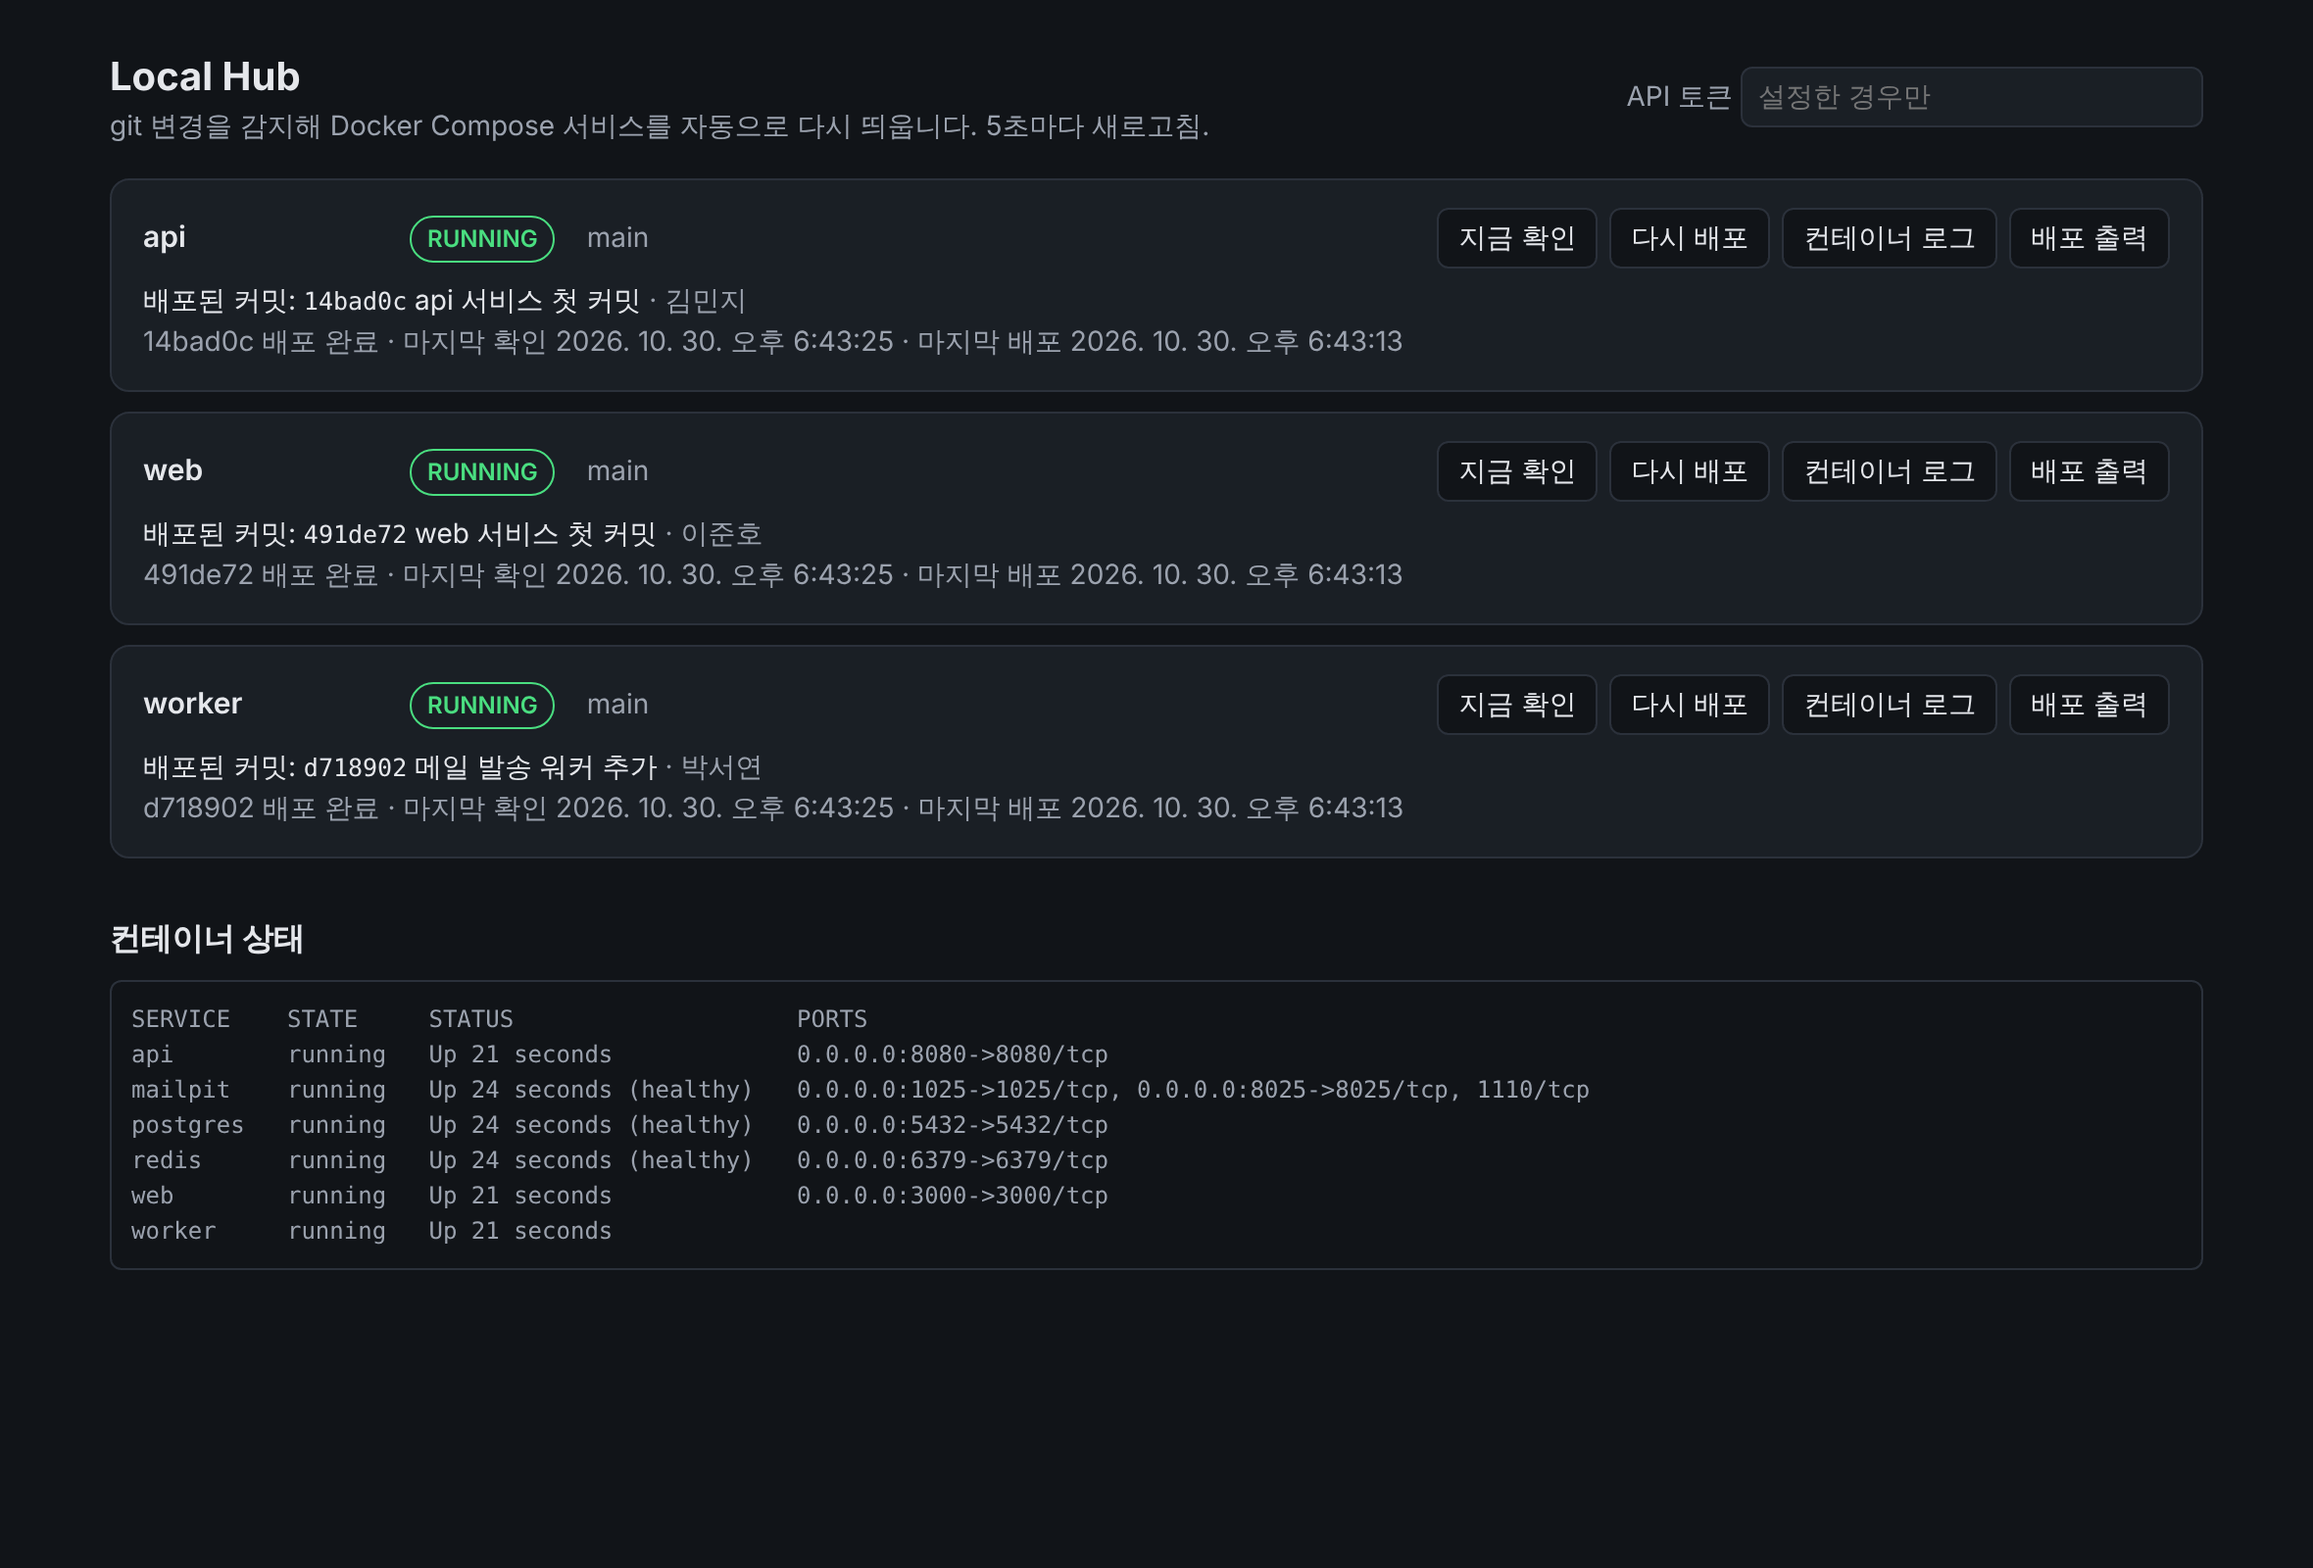
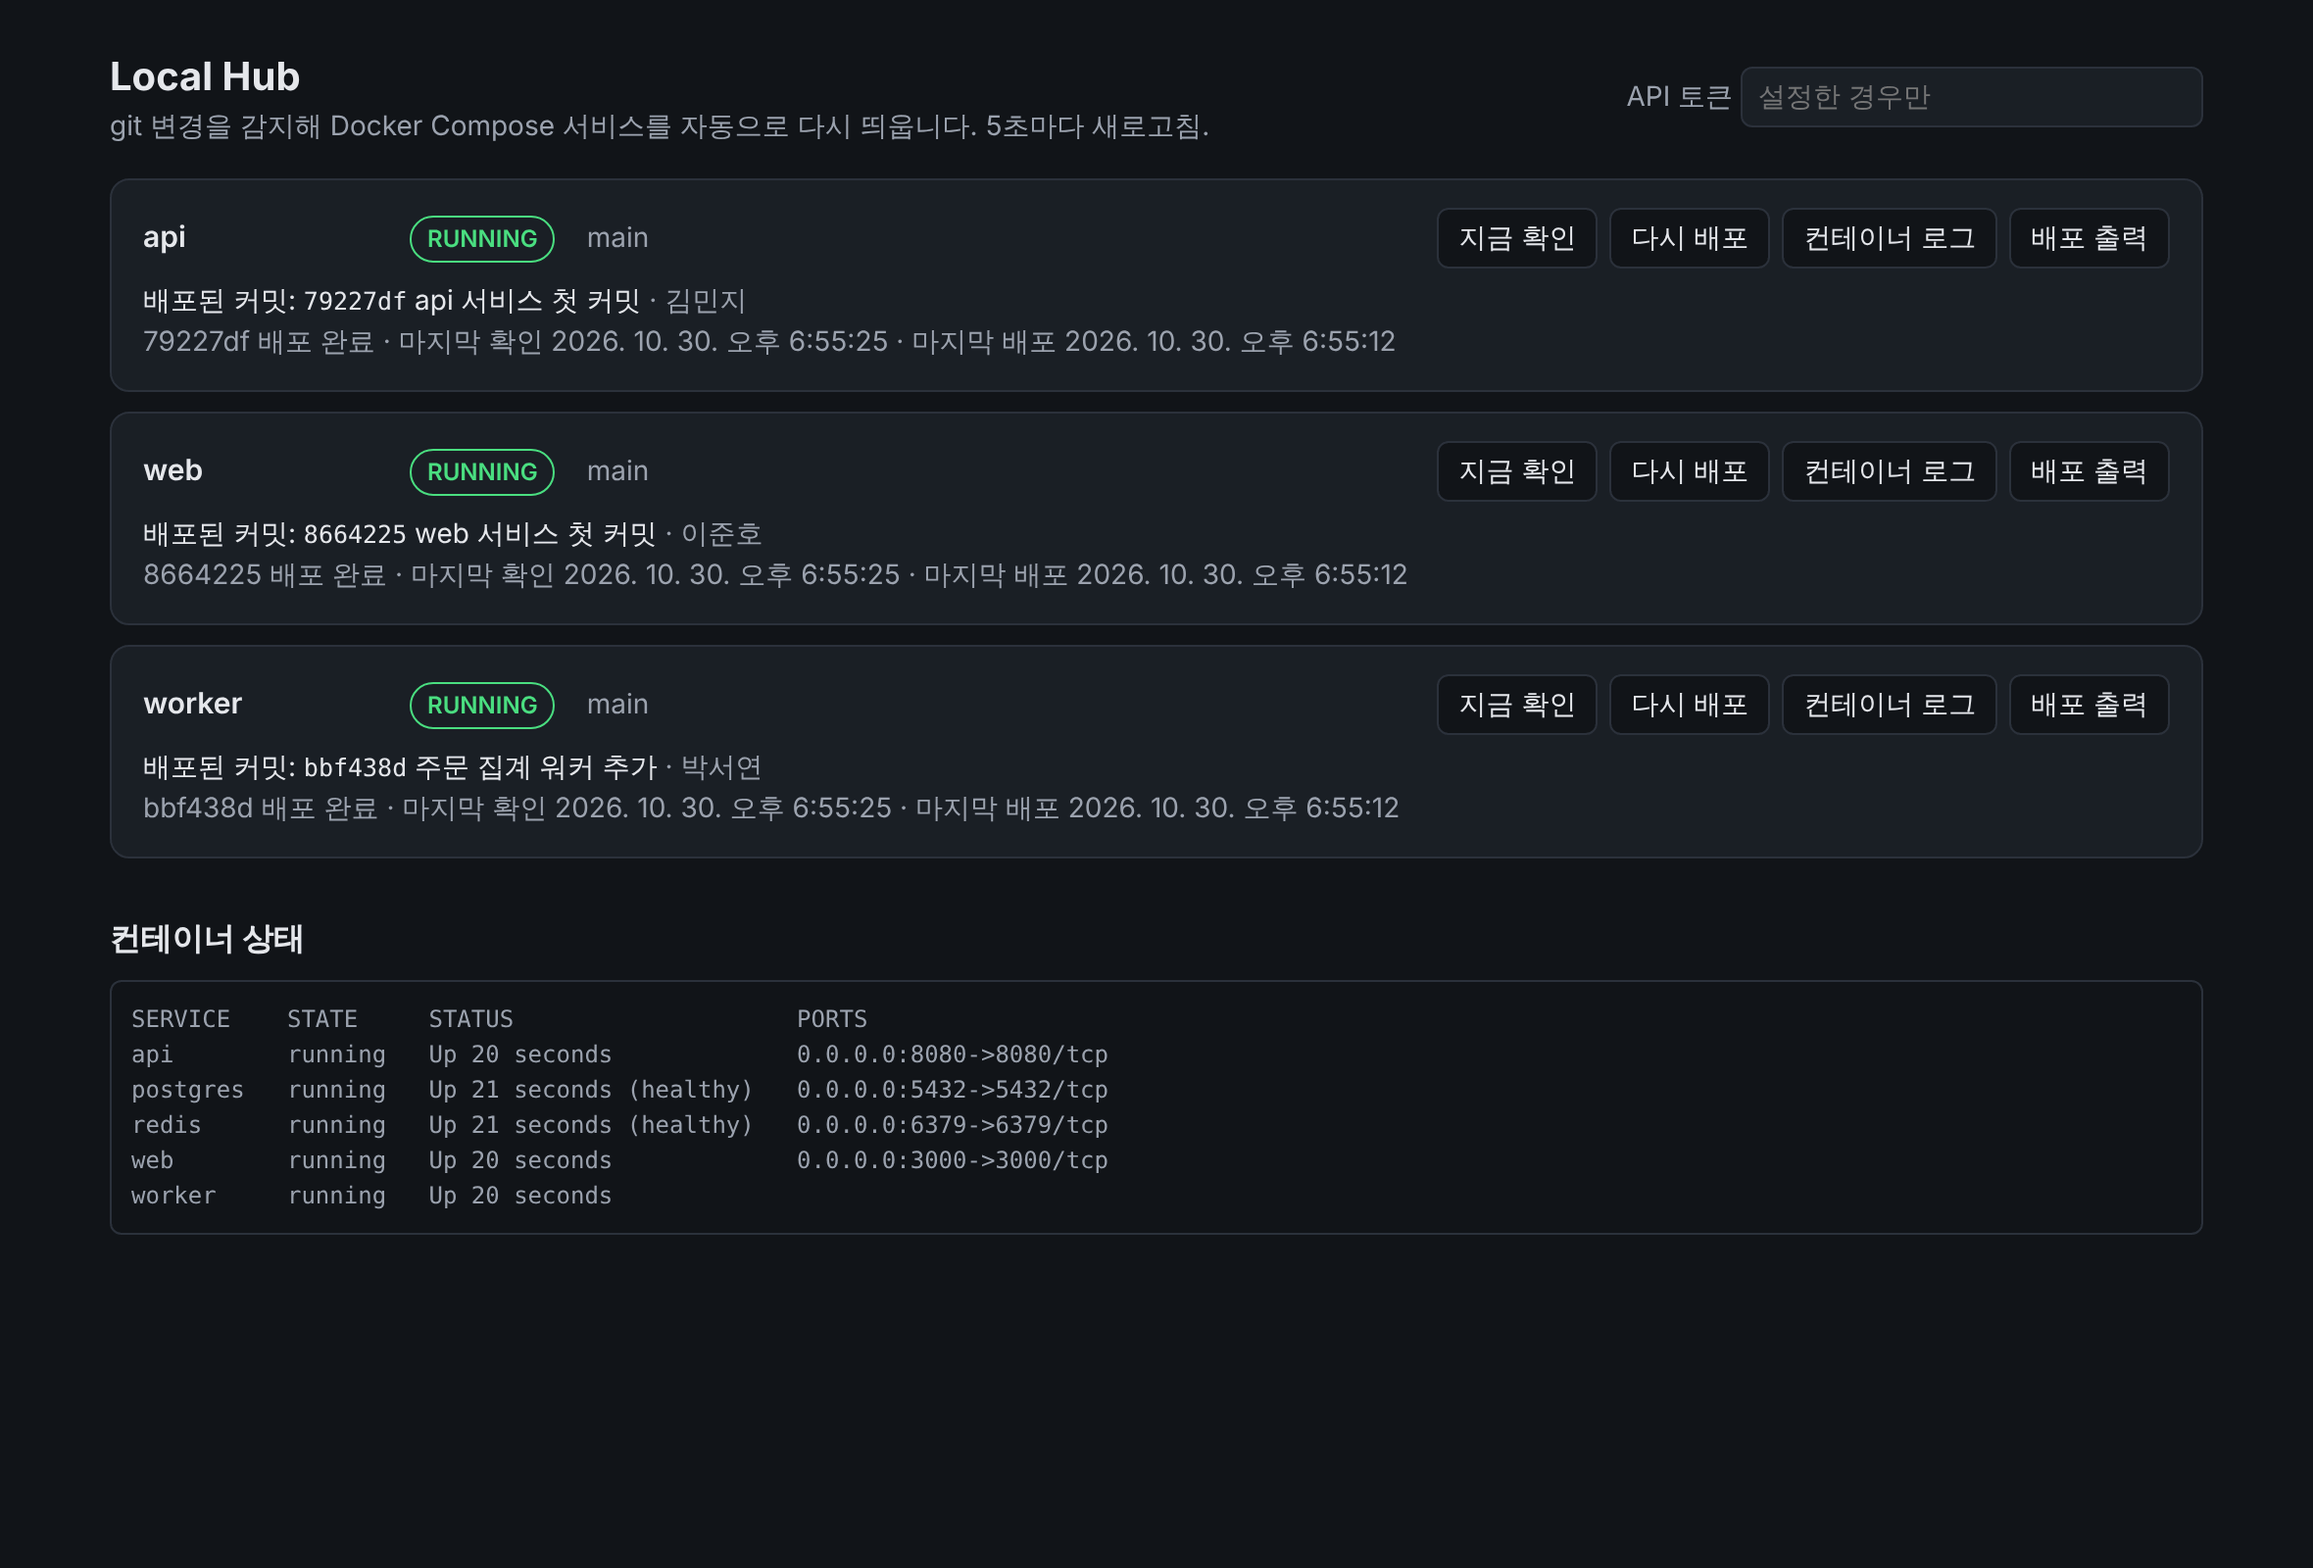
Drop Mailpit from the guide
Mail testing isn't needed, so remove the Mailpit row, screenshot and
mentions, and retake the dashboard screenshots with only Postgres and
Redis as shared services.

Claude-Session: https://claude.ai/code/session_01FSsmaKAN9jmb8rFiVuxQwi

diff --git a/docs/guide/index.html b/docs/guide/index.html
@@ -190,7 +190,7 @@ SideProjectManager/scripts/init-project.sh ../my-project --hub        # Local Hu
  │    실패하면 이전 커밋으로 되돌려 다시 기동                  │
  │                                                          │
  │  Docker Compose 프로젝트 "sidehub"                        │
- │    postgres  redis  mysql  rabbitmq  mailpit  (공통)     │
+ │    postgres  redis  mysql  rabbitmq           (공통)     │
  │    api  web  ...                            (팀원 서비스) │
  └──────────────────────────────────────────────────────────┘</code></pre>
 
@@ -269,12 +269,12 @@ SideProjectManager/scripts/init-project.sh ../my-project --hub        # Local Hu
       <h4>새 커밋이 올라왔을 때</h4>
       <p>아래 두 화면은 api 저장소에 정상 커밋을, web 저장소에 빌드가 깨지는 커밋을 푸시한 뒤의 모습입니다. 따로 누른 버튼은 없고, 폴링으로 감지해 처리했습니다.</p>
       <figure>
-        <img src="img/02a-dashboard-deploying.png" alt="api 카드가 DEPLOYING, web 카드가 ROLLED_BACK 상태인 대시보드" loading="lazy">
-        <figcaption>api는 새 커밋 <code>1444760</code>을 빌드하는 중(DEPLOYING)이고, 아래 문구에 "1444760 배포 중"이 보입니다. 배포가 끝날 때까지 기존 컨테이너는 그대로 떠 있습니다.</figcaption>
+        <img src="img/02a-dashboard-deploying.png" alt="api와 web 카드가 DEPLOYING 상태인 대시보드" loading="lazy">
+        <figcaption>새 커밋을 감지해 api(<code>2241f44</code>)와 web(<code>6bafe63</code>)을 빌드하는 중(DEPLOYING)입니다. 배포가 끝날 때까지 기존 컨테이너는 그대로 떠 있습니다.</figcaption>
       </figure>
       <figure>
         <img src="img/02-dashboard-rolled-back.png" alt="api는 RUNNING으로 새 커밋이 배포되었고, web은 ROLLED_BACK이며 실패한 커밋이 빨간 글씨로 표시된 대시보드" loading="lazy">
-        <figcaption>몇 초 뒤. api는 "회원 가입 API 추가" 커밋으로 올라왔고, web은 실패한 커밋 <code>7df6b8a</code>을 빨간 글씨로 보여 주면서 이전 커밋 <code>8b58fac</code>으로 되돌려 계속 서비스합니다.</figcaption>
+        <figcaption>몇 초 뒤. api는 "회원 가입 API 추가" 커밋으로 올라왔고, web은 실패한 커밋 <code>6bafe63</code>을 빨간 글씨로 보여 주면서 이전 커밋 <code>8664225</code>로 되돌려 계속 서비스합니다.</figcaption>
       </figure>
       <figure>
         <img src="img/03-deploy-output.png" alt="web 카드의 배포 출력을 펼친 화면. RUN npm run build 단계에서 npm: not found 오류가 보인다." loading="lazy">
@@ -282,10 +282,10 @@ SideProjectManager/scripts/init-project.sh ../my-project --hub        # Local Hu
       </figure>
       <figure>
         <img src="img/02c-dashboard-recovered.png" alt="web이 고친 커밋으로 다시 RUNNING이 된 대시보드" loading="lazy">
-        <figcaption>이준호 님이 문제를 고친 커밋 <code>895c922</code>를 푸시하자 web이 다시 <span class="badge s-RUNNING">RUNNING</span>이 되고 실패 표시가 사라졌습니다.</figcaption>
+        <figcaption>이준호 님이 문제를 고친 커밋 <code>7f7539e</code>를 푸시하자 web이 다시 <span class="badge s-RUNNING">RUNNING</span>이 되고 실패 표시가 사라졌습니다.</figcaption>
       </figure>
       <figure>
-        <img src="img/04-container-logs.png" alt="worker 카드의 컨테이너 로그를 펼친 화면. 3초마다 메일 발송 큐 확인 로그가 찍혀 있다." loading="lazy">
+        <img src="img/04-container-logs.png" alt="worker 카드의 컨테이너 로그를 펼친 화면. 3초마다 주문 집계 작업 확인 로그가 찍혀 있다." loading="lazy">
         <figcaption><b>컨테이너 로그</b>는 <code>docker compose logs --tail 200</code> 결과입니다. 공용 PC에 접속하지 않고도 팀원 서비스의 로그를 볼 수 있습니다.</figcaption>
       </figure>
       <figure>
@@ -370,14 +370,9 @@ hub:
           <tr><td><code>mysql</code></td><td><code>localhost:3306</code></td><td><code>mysql:3306</code></td><td>app / app, DB <code>app</code></td></tr>
           <tr><td><code>redis</code></td><td><code>localhost:6379</code></td><td><code>redis:6379</code></td><td>없음</td></tr>
           <tr><td><code>rabbitmq</code></td><td><code>localhost:5672</code>, 관리 화면 <code>:15672</code></td><td><code>rabbitmq:5672</code></td><td>app / app</td></tr>
-          <tr><td><code>mailpit</code></td><td>SMTP <code>localhost:1025</code>, 웹 <code>:8025</code></td><td><code>mailpit:1025</code></td><td>없음</td></tr>
         </tbody>
       </table></div>
       <p>데이터는 이름 있는 볼륨에 저장되므로 컨테이너를 다시 만들어도 남습니다. 팀원 PC에서는 <code>localhost</code> 대신 공용 PC의 IP로 접속합니다.</p>
-      <figure>
-        <img src="img/05-mailpit.png" alt="Mailpit 웹 화면. 받은 편지함에 회원 가입 인증 메일 한 통이 있다." loading="lazy">
-        <figcaption><code>mailpit</code>은 메일을 실제로 보내지 않고 모아 두는 테스트용 SMTP 서버입니다. 앱에서 <code>mailpit:1025</code>로 보낸 메일을 <code>http://&lt;공용PC&gt;:8025</code>에서 확인합니다.</figcaption>
-      </figure>
 
       <h3 id="hub-private">비공개 저장소</h3>
       <p>Local Hub는 호스트의 <code>git</code>을 그대로 씁니다. 공용 PC에서 <code>git clone</code>이 되면 Local Hub도 됩니다.</p>
@@ -625,7 +620,7 @@ git 저장소를 새로 만들었습니다 (main 브랜치)
       <div class="table-wrap"><table>
         <thead><tr><th>종류</th><th>화면</th><th>어떻게 만들었나</th></tr></thead>
         <tbody>
-          <tr><td><b>실제 화면</b></td><td>Local Hub 대시보드 7장, Mailpit</td><td>Local Hub를 실제로 띄워 찍었습니다. 예시 저장소 세 개(api, web, worker)와 Postgres, Redis, Mailpit을 올리고 정상 커밋, 빌드가 깨지는 커밋, 고친 커밋을 차례로 푸시했습니다. 커밋 작성자 이름은 예시입니다.</td></tr>
+          <tr><td><b>실제 화면</b></td><td>Local Hub 대시보드 7장</td><td>Local Hub를 실제로 띄워 찍었습니다. 예시 저장소 세 개(api, web, worker)와 Postgres, Redis를 올리고 정상 커밋, 빌드가 깨지는 커밋, 고친 커밋을 차례로 푸시했습니다. 커밋 작성자 이름은 예시입니다.</td></tr>
           <tr><td><b>미리보기</b> (실제 GitHub 화면 아님)</td><td>기획·할 일 양식, 기획 진행률, 기획 완료 댓글, 배포 실패 이슈, 주간 요약, 채팅 알림</td><td>워크플로가 실제 저장소에서 돌아야 찍을 수 있어 직접 그렸습니다. 양식은 저장소의 YAML 파일에서, 본문과 댓글 문구는 실제 스크립트 출력에서 가져왔습니다. 배포 실패 이슈는 Local Hub가 테스트용 가짜 GitHub API로 실제로 보낸 내용입니다. 이미지 위쪽 노란 표시로 구분됩니다.</td></tr>
         </tbody>
       </table></div>
